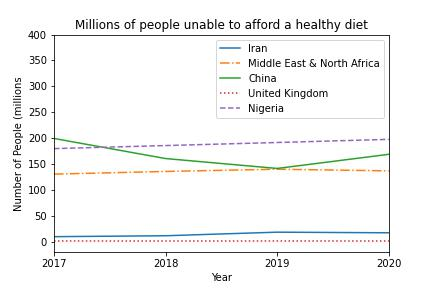
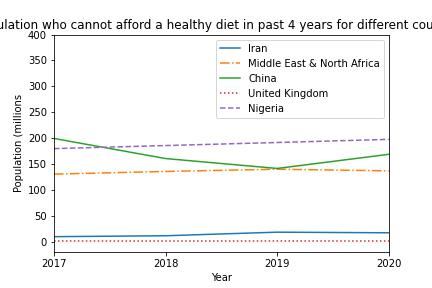
Added Stacked Bar pot code

Changed region(s): [[0.0, 0.0625, 1.0, 0.125], [0.0301, 0.25, 0.0602, 0.75]]

diff --git a/ADS1_Assignment1.py b/ADS1_Assignment1.py
@@ -24,6 +24,11 @@ def readPiePlotData():
   return df_Food_Prices_updated
 
 
+def readStackedBarPlotData():
+    df_illiterate_population = pd.read_csv("Youth illiterate population.csv")
+    return df_illiterate_population
+
+
 def linePlot(df):
     df_Food_Prices_updated = df
     plt.figure()
@@ -41,8 +46,9 @@ def linePlot(df):
     plt.xlim(2017, 2020)
     plt.xticks([2017, 2018, 2019, 2020], [2017, 2018, 2019, 2020])
     plt.xlabel("Year")
-    plt.ylabel("Number of People (millions")
-    plt.title("Millions of people unable to afford a healthy diet")
+    plt.ylabel("Population (millions")
+    plt.title(
+        "Population who cannot afford a healthy diet in past 4 years for different countries")
     plt.legend(loc='upper right')
     plt.savefig('LinePlot.jpg')
     plt.show()
@@ -54,9 +60,30 @@ def piePlot(df):
     names = ["High income [HIC]", "Low income [LIC] ", "Lower middle income [LMC]",
              "Upper middle income [UMC]"]
     plt.figure()
-    plt.pie(food_prices['2020.0'], labels=names)
+    plt.subplot(2, 1, 1)
+    plt.pie(food_prices['2019.0'], autopct='%1.1f%%', labels=names)
     plt.title("Population who cannot afford a healthy diet (millions) in 2020")
+    plt.subplot(2, 1, 2)
+    plt.pie(food_prices['2020.0'], autopct='%1.1f%%', labels=names)
+    plt.title("Population who cannot afford a healthy diet (millions) in 2019")
+    plt.tight_layout()
     plt.savefig("PiePlot.png")
+    plt.show()
+    return
+
+
+def stackedBarPlot(df):
+    illiterate_population = df
+    plt.figure()
+    plt.bar(illiterate_population["Time"],
+            illiterate_population["Youth illiterate population, 15-24 years, male (number) [UIS.LP.AG15T24.M]"], width=.5, label="Male")
+    plt.bar(illiterate_population["Time"], illiterate_population["Youth illiterate population, 15-24 years, female (number) [UIS.LP.AG15T24.F]"],
+            bottom=illiterate_population["Youth illiterate population, 15-24 years, male (number) [UIS.LP.AG15T24.M]"], width=.5, label="Female")
+    plt.title("Youth illiterate population")
+    plt.xlabel("Year")
+    plt.ylabel("Population (millions)")
+    plt.legend()
+    plt.savefig("StackedBarPlot.png")
     plt.show()
     return
 
@@ -64,3 +91,4 @@ def piePlot(df):
 if __name__ == "__main__":
     linePlot(readLinePlotData())
     piePlot(readPiePlotData())
+    stackedBarPlot(readStackedBarPlotData())
